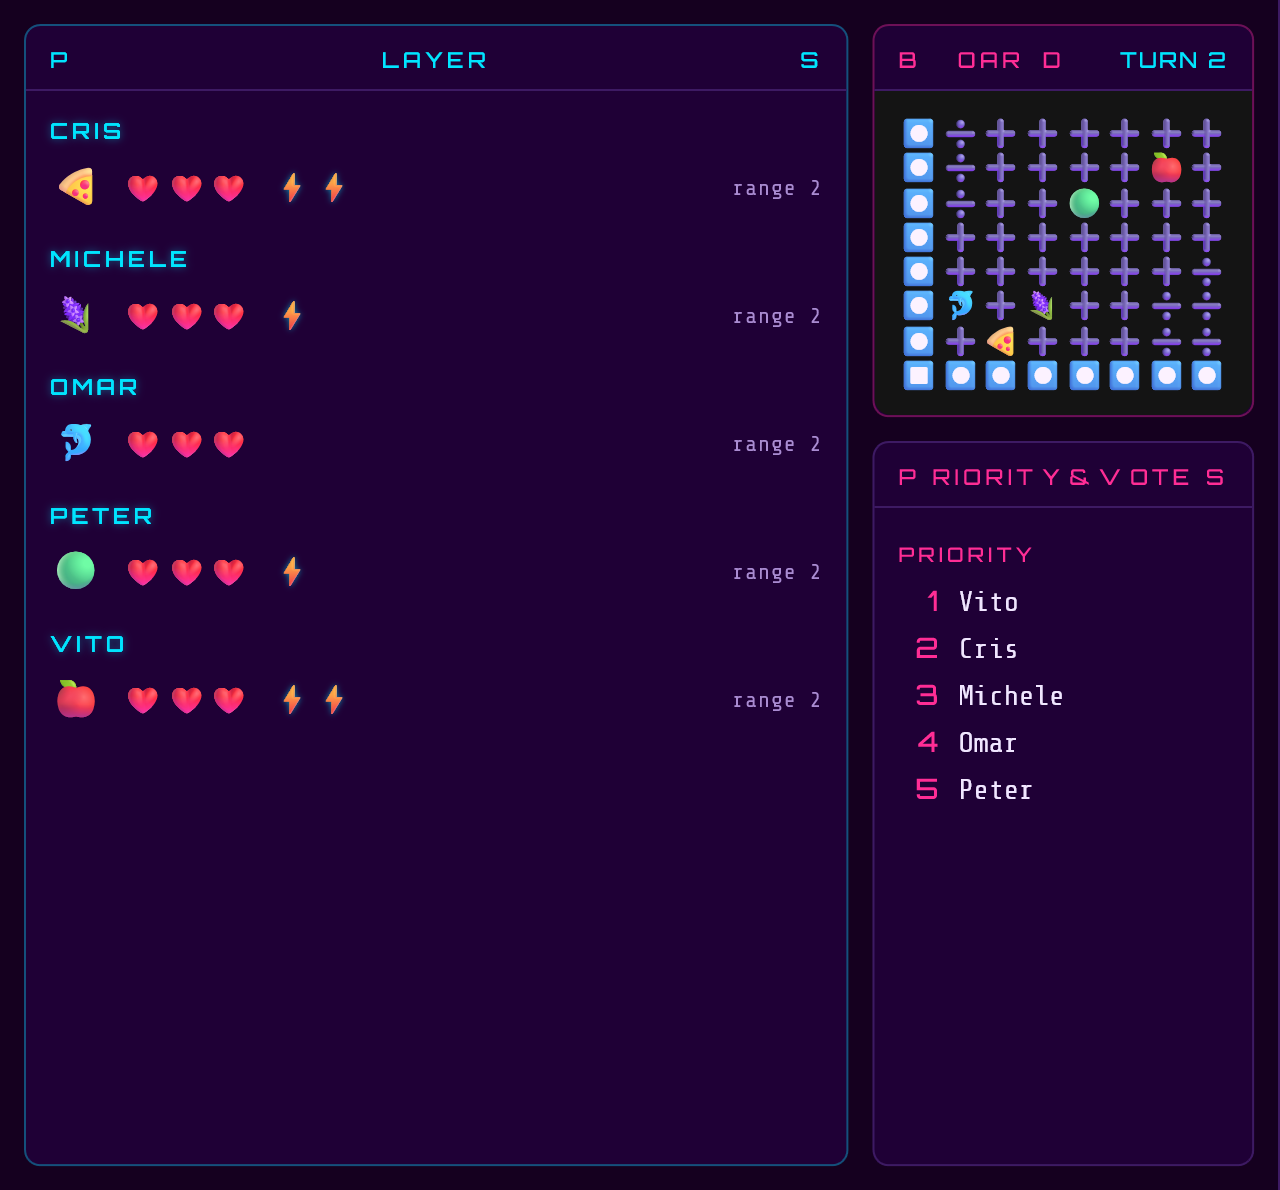
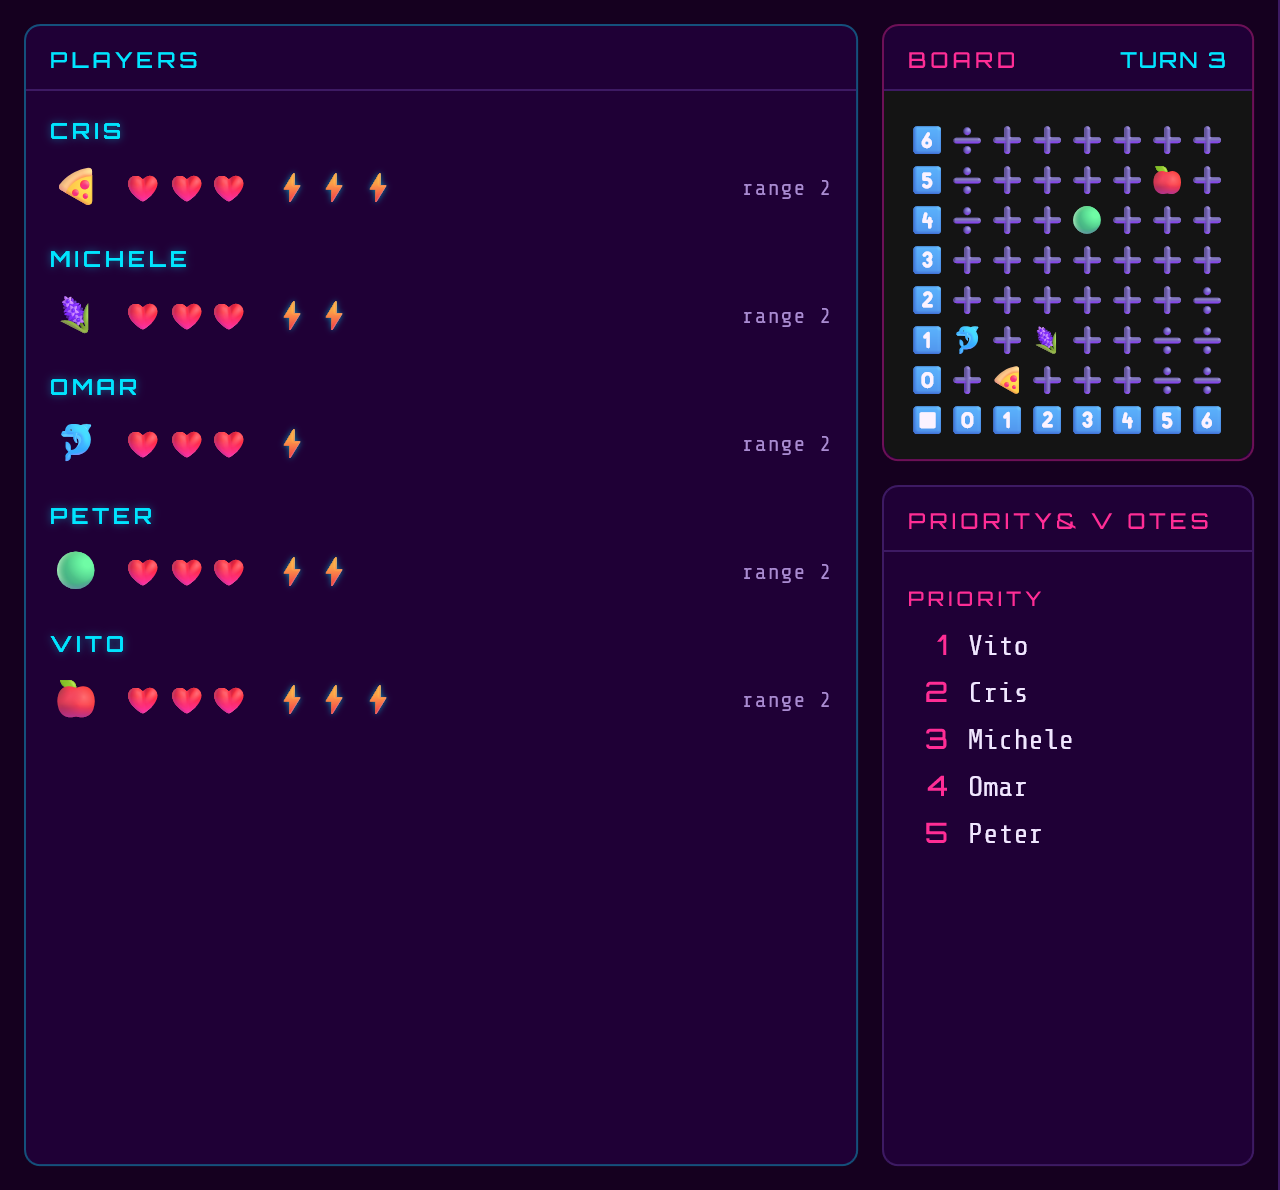
square board

diff --git a/token_tactics/webui/app.js b/token_tactics/webui/app.js
@@ -23,7 +23,7 @@
   // --- Settings (persisted to localStorage) ---
   var SETTINGS_KEY = "tt.settings";
   var defaults = {
-    coordinates: "dots",
+    coordinates: "numbers",
     commandColor: "#89b4fa",
     commentColor: "#808080",
     boardBg: "#141414",
@@ -292,52 +292,29 @@
   }
 
   function renderBoard(res) {
-    boardEl.textContent = res.board;
+    boardEl.textContent = "";
     boardTurnEl.textContent = res.turn != null ? "TURN " + res.turn : "";
-  }
-
-  function textOffsetAtPoint(x, y) {
-    if (document.caretPositionFromPoint) {
-      var pos = document.caretPositionFromPoint(x, y);
-      if (pos && pos.offsetNode && pos.offsetNode.nodeType === 3) {
-        return { node: pos.offsetNode, offset: pos.offset };
-      }
-    }
-    if (document.caretRangeFromPoint) {
-      var range = document.caretRangeFromPoint(x, y);
-      if (range && range.startContainer && range.startContainer.nodeType === 3) {
-        return { node: range.startContainer, offset: range.startOffset };
-      }
-    }
-    return null;
-  }
-
-  function graphemeAtOffset(text, offset) {
-    if (typeof Intl !== "undefined" && Intl.Segmenter) {
-      var it = new Intl.Segmenter(undefined, { granularity: "grapheme" }).segment(text);
-      for (var seg of it) {
-        if (offset >= seg.index && offset < seg.index + seg.segment.length) {
-          return seg.segment;
-        }
-      }
-      return null;
-    }
-    var cps = Array.from(text);
-    var idx = 0;
-    for (var i = 0; i < cps.length; i++) {
-      var len = cps[i].length;
-      if (offset >= idx && offset < idx + len) return cps[i];
-      idx += len;
-    }
-    return null;
+    (res.board || "").split("\n").forEach(function (line) {
+      if (line === "") return;
+      var row = document.createElement("div");
+      row.className = "board-row";
+      graphemes(line).forEach(function (g) {
+        var cell = document.createElement("span");
+        cell.className = "board-cell";
+        cell.textContent = g;
+        cell.dataset.emoji = g;
+        row.appendChild(cell);
+      });
+      boardEl.appendChild(row);
+    });
   }
 
   boardEl.addEventListener("click", function (e) {
-    var hit = textOffsetAtPoint(e.clientX, e.clientY);
-    if (!hit || hit.node !== boardEl.firstChild) return;
-    var grapheme = graphemeAtOffset(boardEl.textContent, hit.offset);
-    if (grapheme && tokenSet.has(grapheme)) {
-      copyEmoji(grapheme);
+    var cell = e.target && e.target.closest ? e.target.closest(".board-cell") : null;
+    if (!cell) return;
+    var emoji = cell.dataset.emoji;
+    if (emoji && tokenSet.has(emoji)) {
+      copyEmoji(emoji);
     }
   });
 

diff --git a/token_tactics/webui/index.html b/token_tactics/webui/index.html
@@ -32,7 +32,7 @@
       <div id="right-col">
         <div id="board-box" class="box">
           <div class="box-title">Board<span id="board-turn"></span></div>
-          <pre id="board">Loading…</pre>
+          <div id="board">Loading…</div>
         </div>
         <div id="priority-box" class="box">
           <div class="box-title">Priority &amp; Votes</div>
@@ -50,8 +50,8 @@
     <label class="setting">
       <span>Coordinates</span>
       <select id="setting-coordinates">
-        <option value="dots">No coordinates (dots)</option>
         <option value="numbers">Numbers (keycap)</option>
+        <option value="dots">No coordinates (dots)</option>
       </select>
     </label>
     <label class="setting">

diff --git a/token_tactics/webui/style.css b/token_tactics/webui/style.css
@@ -173,11 +173,24 @@ main {
 #board {
   margin: 0;
   padding: 12px;
-  font-size: calc(15px * var(--board-zoom));
-  line-height: 1.15;
-  white-space: pre;
   background: var(--board-bg);
   border-radius: 0 0 8px 8px;
+  --cell-size: calc(20px * var(--board-zoom));
+}
+
+.board-row {
+  display: flex;
+}
+
+.board-cell {
+  display: flex;
+  align-items: center;
+  justify-content: center;
+  width: var(--cell-size);
+  height: var(--cell-size);
+  font-size: calc(14px * var(--board-zoom));
+  line-height: 1;
+  user-select: none;
 }
 
 /* --- Right column (board + priority) --- */
